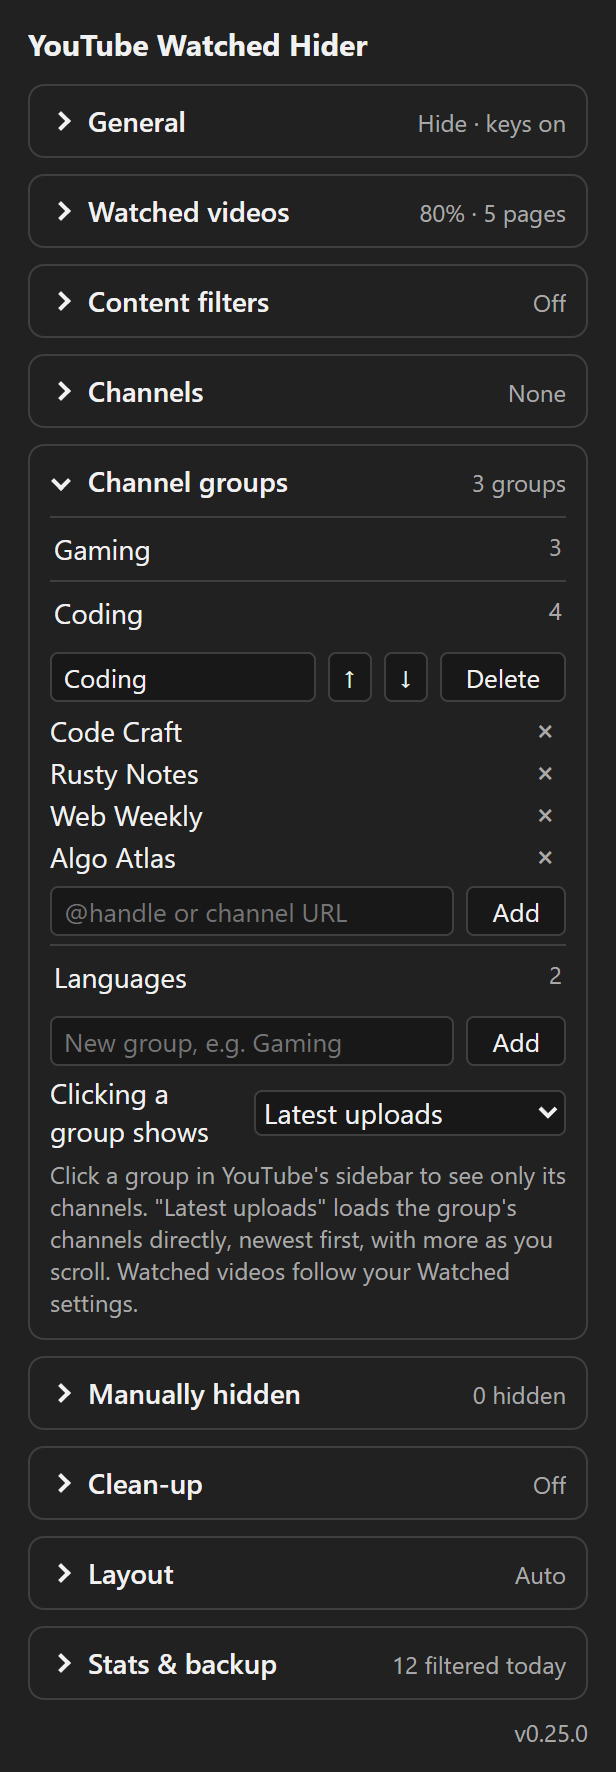
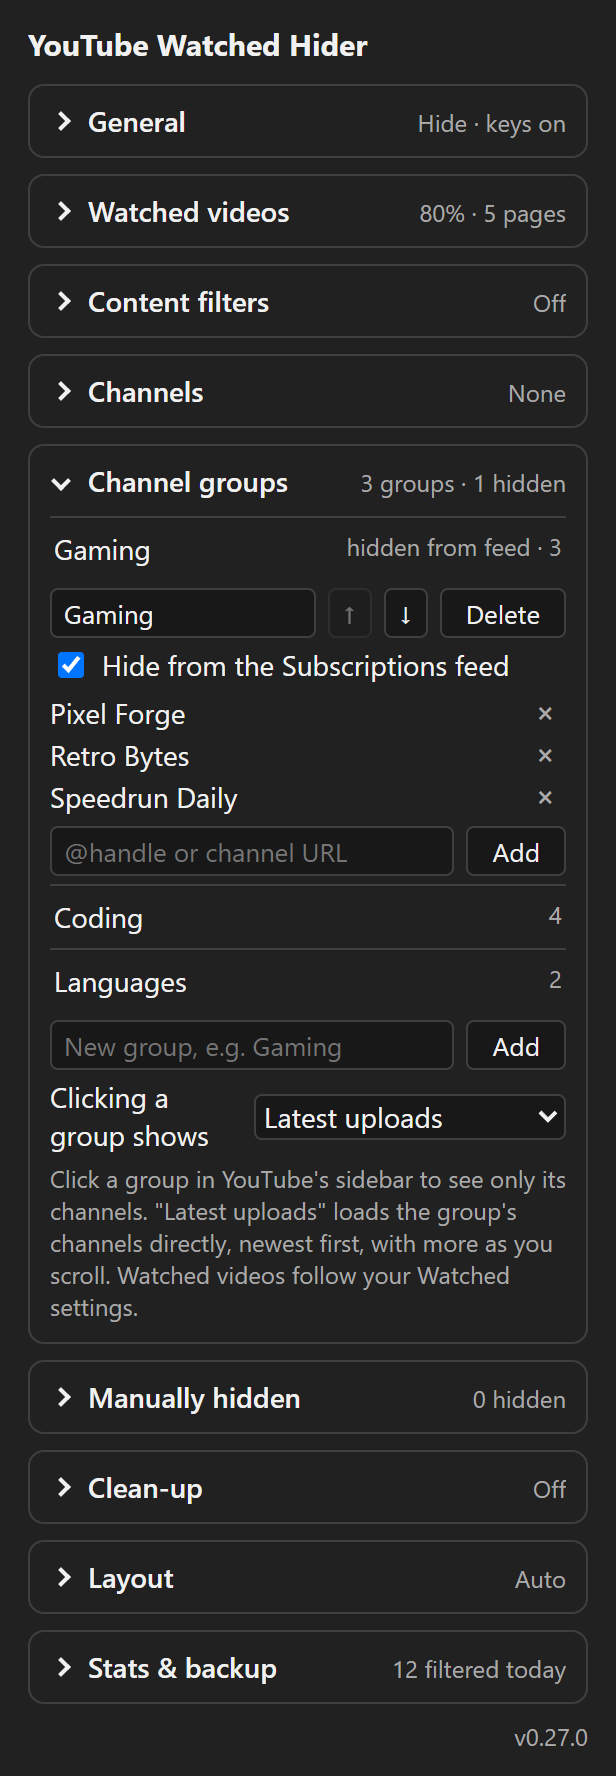
docs: settings screenshots show a group hidden from the Subscriptions feed

diff --git a/README.md b/README.md
@@ -46,11 +46,11 @@ Settings are grouped into collapsible sections; each header shows what's current
 <table>
   <tr>
     <td align="center"><img src="docs/screenshots/settings-dark.png" width="300" alt="Settings panel in dark theme: gray out at 60%, keyword and channel filters, hide videos older than 3 months, 3 channel groups, Shorts, shelves and ads hidden, 5 videos per row"></td>
-    <td align="center"><img src="docs/screenshots/settings-groups.png" width="300" alt="Channel groups section in dark theme: Gaming, Coding and Languages groups, Coding expanded with its four channels and a field to add more, and Clicking a group shows set to Latest uploads"></td>
+    <td align="center"><img src="docs/screenshots/settings-groups.png" width="300" alt="Channel groups section in dark theme: Gaming, Coding and Languages groups, Gaming expanded with Hide from the Subscriptions feed ticked, its three channels and a field to add more, and Clicking a group shows set to Latest uploads"></td>
   </tr>
   <tr>
     <td align="center">Gray out at 60%, keyword, channel, age and type filters, 3 channel groups, clean-up, 5 per row</td>
-    <td align="center">Channel groups: manage groups and their channels, choose how a group opens</td>
+    <td align="center">Channel groups: manage groups and their channels, hide a group from the main feed, choose how a group opens</td>
   </tr>
 </table>
 
